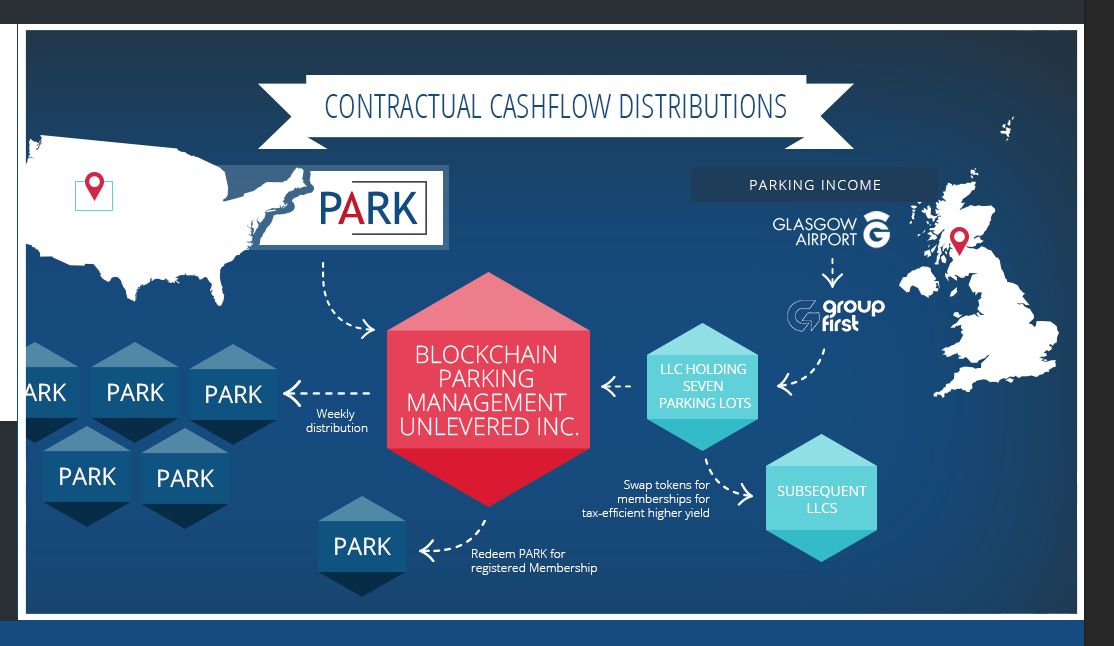
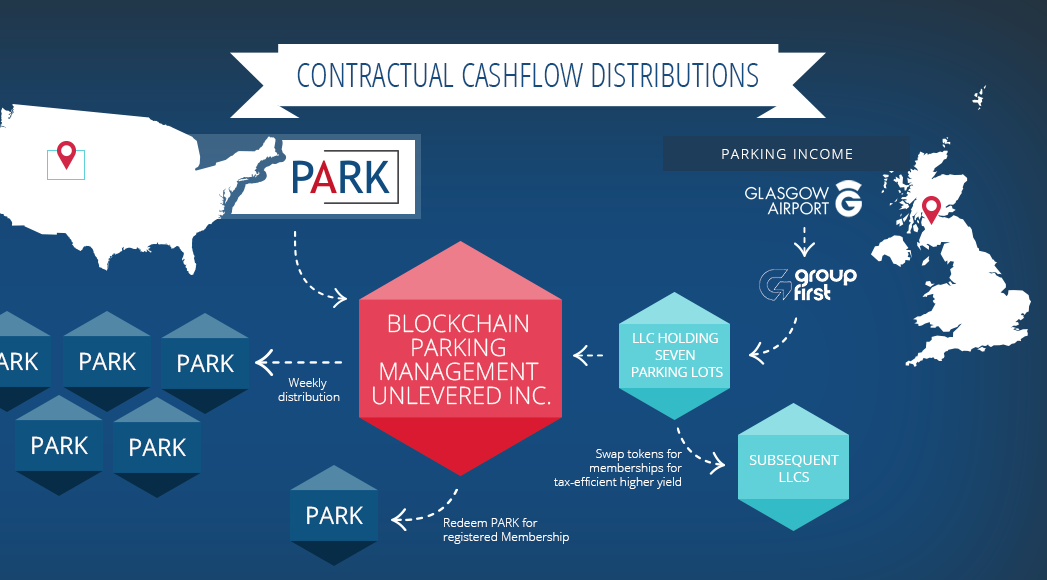
Publish of Github pages from Gradle.

diff --git a/unavailable.html b/unavailable.html
@@ -229,6 +229,7 @@
 
     <!-- BEGIN TWITTER SLIDE -->
 
+    <!-- Is this even supposed to be here?
     <div class="gp-TwitterSlide">
 
     	<div class="gp_twitterLogo">
@@ -255,19 +256,22 @@
         </div>
 
     </div>
+    -->
 
 
     <!-- END TWITTER SLIDE -->
 
     <!-- BEGIN EXCHANGE SLIDE -->
-    <div id="exchange">
+    <div id="exchange" class="infographic">
 
+        <!-- Temporary removal
         <div id="exchange-text">
             <h2>EXCHANGE</h2>
             <div class="center-text">_</div>
             <p>Partner Exchanges Coming Soon</p>
         </div>
-
+        -->
+        <img src="images/infographic.png">
     </div>
 
     <!-- BEGIN CALL TO ACTION SLIDE -->

diff --git a/park-styles.css b/park-styles.css
@@ -318,6 +318,16 @@ div.button {
 	background-color:#ffffff;
 	position:relative;
 }
+#exchange.infographic {
+	background:url(images/press-bg.png);
+    background-repeat: no-repeat;
+    background-size: cover;
+	height:600px;
+}
+#exchange.infographic img {
+	margin: 0px auto 0px auto;
+}
+
 #exchange-text h2{
 	padding-top:80px;
 }
@@ -534,5 +544,10 @@ select{
 	padding: 4px;
 }
 
+.gp-pagecontainer img {
+	margin:150px auto 50px auto;
+	display:block;
+	clear:both;
+}
 
 
